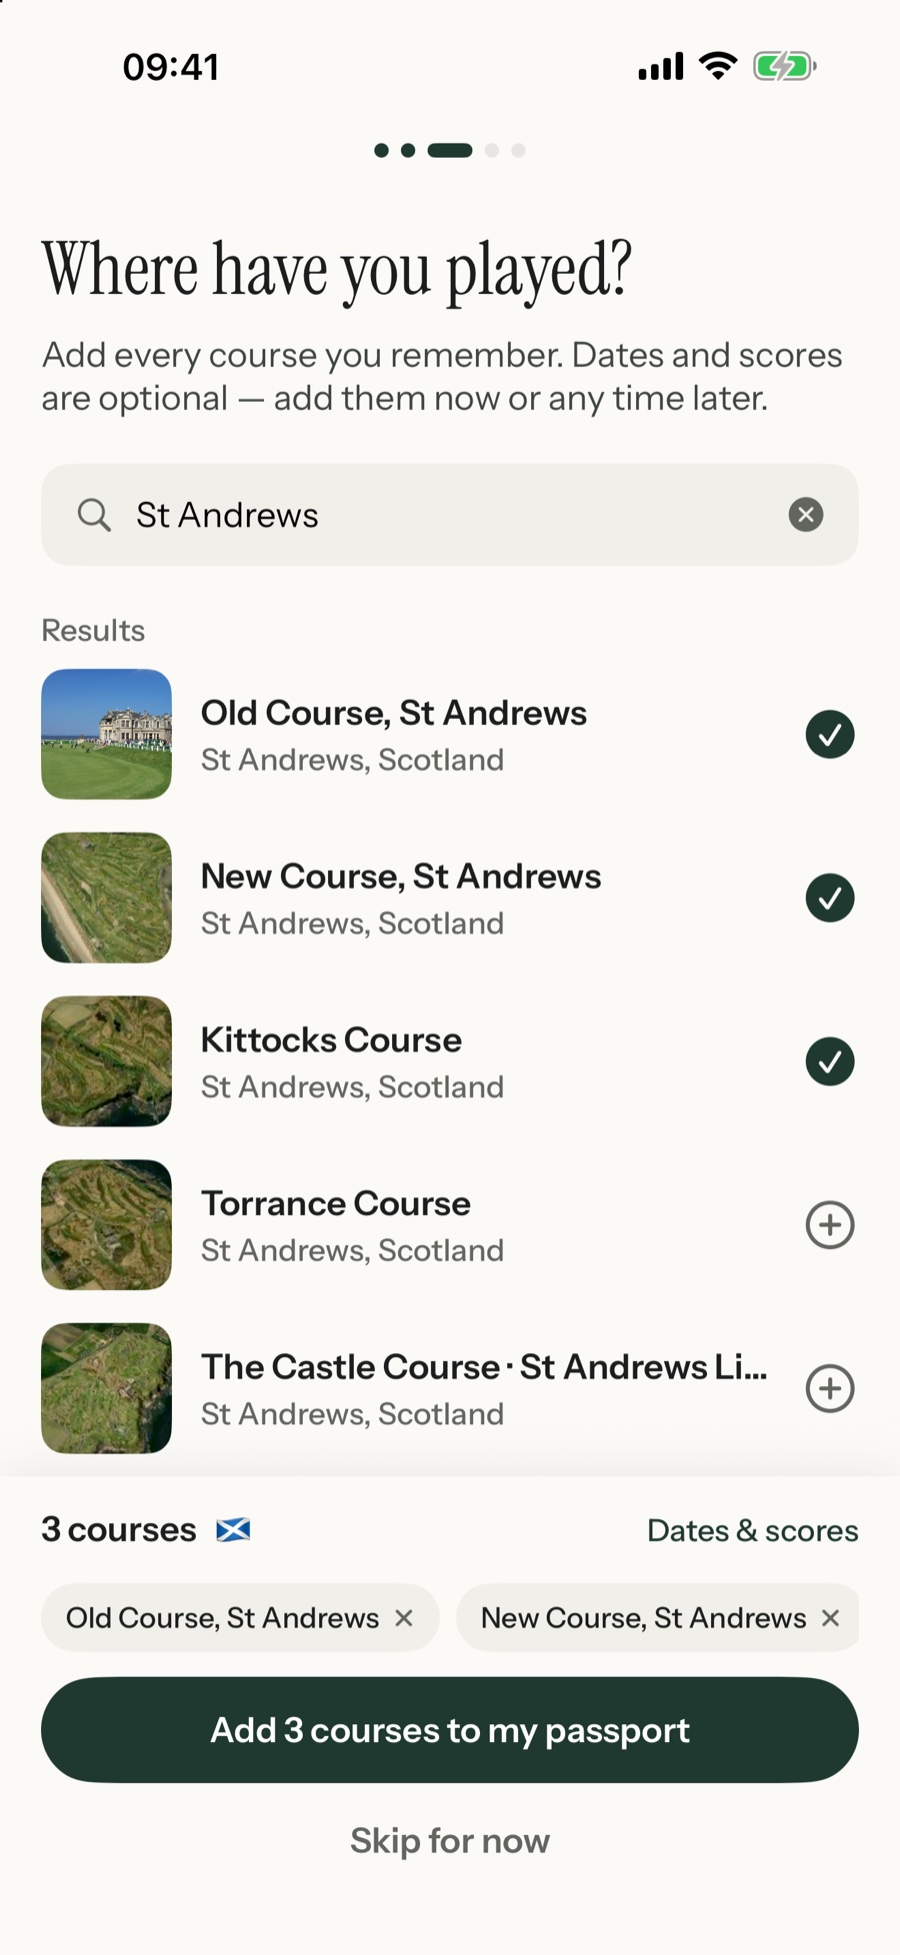
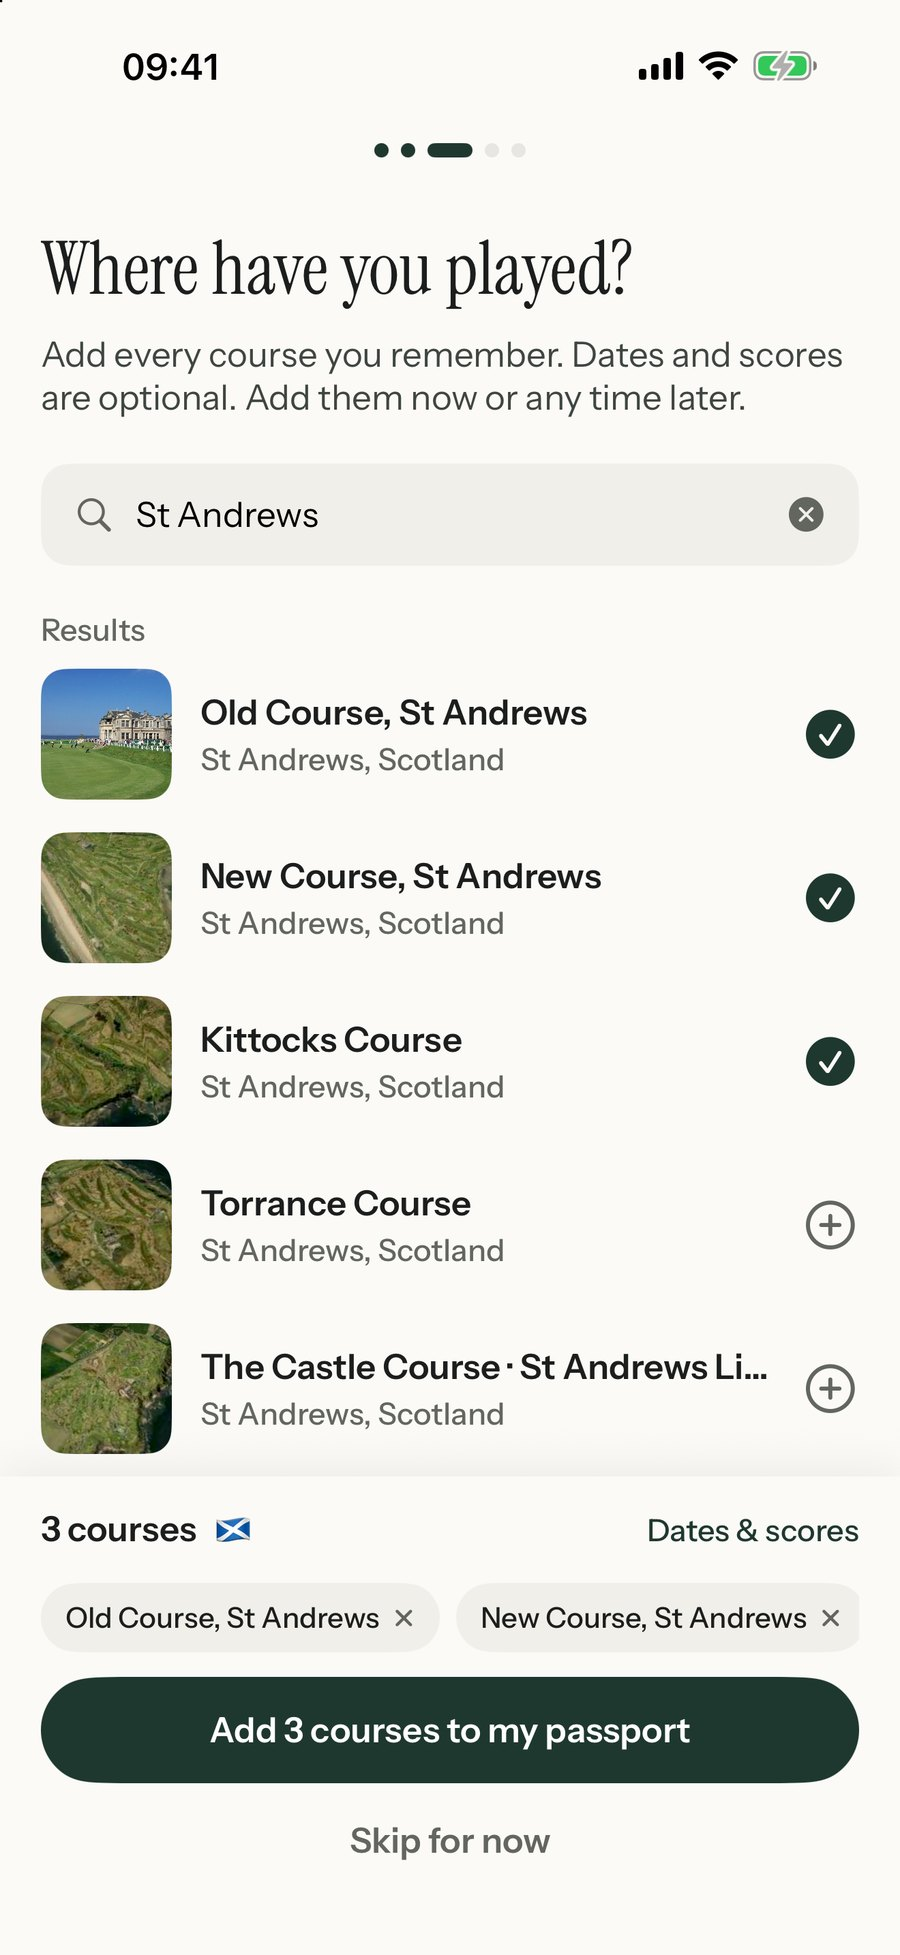
Remove long dashes; new forest green link image; updated course-picking screen

Changed region(s): [[0.28, 0.1872, 0.84, 0.2184]]

diff --git a/support/index.html b/support/index.html
@@ -9,9 +9,9 @@
 <link rel="icon" href="/assets/favicon-64.png">
 <link rel="apple-touch-icon" href="/assets/apple-touch-icon.png">
 <link rel="stylesheet" href="/assets/site.css">
-<meta property="og:title" content="Support — Pinzo">
+<meta property="og:title" content="Pinzo support">
 <meta property="og:description" content="Help with Pinzo, the golf passport app for iPhone: adding courses, logging rounds, Apple Health, friends, iCloud sync and importing from other golf apps.">
-<meta property="og:image" content="https://pinzo.golf/assets/logo-512.png">
+<meta property="og:image" content="https://pinzo.golf/assets/og-image.jpg">
 <meta property="og:url" content="https://pinzo.golf/support/">
 <meta name="theme-color" content="#243F37">
 </head>
@@ -37,10 +37,10 @@
     <details><summary>My course is missing or has the wrong name</summary><p>If a search finds nothing in Pinzo, results from Apple Maps appear underneath. Tap one to add it. If a course is listed but its name is out of date, or one of the club's courses is missing, scroll to the bottom of the course page and tap <b>Suggest a fix</b>. We review every suggestion, and approved fixes reach everyone's app, usually within a day.</p></details>
     <details><summary>Where's my year in golf?</summary><p>Each December and January, your year in golf appears at the top of Home and on your Passport. Any other time, find every year (and your year so far) in <b>Profile → Settings → Your years in golf</b>. Every card can be shared to your Stories.</p></details>
     <details><summary>Can I log nine holes?</summary><p>Yes. Under <b>Score</b> in Log a round, choose <b>18</b>, <b>9</b> or <b>Other</b> for any number of holes. Nine-hole rounds count towards your courses, countries and stamps; scoring medals like Broke 80 need a full 18.</p></details>
-    <details><summary>How do indoor rounds count?</summary><p>Choose <b>Indoor golf</b> when logging. Indoor venues count towards your countries and stamps, and you can note the virtual course you played — but a simulator round at “Pebble Beach” doesn't count as playing Pebble Beach.</p></details>
-    <details><summary>Can I add rounds from years ago?</summary><p>Yes. Tap <b>Log</b> → <b>Past rounds</b> and add every course you remember in one go. Dates and scores are optional — choose an exact date, month, year or “I don't remember”, and add details later from any round.</p></details>
+    <details><summary>How do indoor rounds count?</summary><p>Choose <b>Indoor golf</b> when logging. Indoor venues count towards your countries and stamps, and you can note the virtual course you played, but a simulator round at “Pebble Beach” doesn't count as playing Pebble Beach.</p></details>
+    <details><summary>Can I add rounds from years ago?</summary><p>Yes. Tap <b>Log</b> → <b>Past rounds</b> and add every course you remember in one go. Dates and scores are optional. Choose an exact date, month, year or “I don't remember”, and add details later from any round.</p></details>
     <details><summary>Can I import rounds from Hole19, 18Birdies or Golfshot?</summary><p>If they save your rounds to Apple Health (most do, as do Apple Watch golf workouts), tap <b>Log</b> → <b>Apple Health</b>. Pinzo reads your golf workouts on your iPhone and suggests the course for each one. Those apps don't offer a direct connection to other apps.</p></details>
-    <details><summary>What are milestones?</summary><p>Alongside a stamp for every country, Pinzo awards milestone seals — courses played, rounds logged, breaking 100, 90 and 80, the Old Course, Open venues, a hole in one and more. Find them in your passport; tap one to see your progress or share it.</p></details>
+    <details><summary>What are milestones?</summary><p>Alongside a stamp for every country, Pinzo awards milestone seals: courses played, rounds logged, breaking 100, 90 and 80, the Old Course, Open venues, a hole in one and more. Find them in your passport; tap one to see your progress or share it.</p></details>
     <details><summary>How do I add a hole in one?</summary><p>Tap the Hole in one medal in your milestones, choose <b>Add it to a round</b>, then pick the round and the hole. If a round's note mentions a hole in one, Pinzo will also ask you about it on that round's page.</p></details>
     <details><summary>Which notifications does Pinzo send?</summary><p>Only the ones you choose: a reminder to log after Apple Health records a golf round, occasional “on this day” memories and new stamps (all created on your iPhone), and, if you use Friends, a note when a friend plays.</p></details>
     <details><summary>Can I bring in rounds from Golfshot or other golf apps?</summary><p>Golf apps don't let other apps read their round history directly. If yours saves rounds to Apple Health as golf workouts (Golfshot, Hole19, 18Birdies and Apple Watch can), tap <b>Log</b>, then <b>Rounds in Apple Health</b> under Other ways to add, and Pinzo suggests the course for each one. Otherwise, <b>Courses from years ago</b> in Log (or Quick add in Settings) lets you tick every course you've played in a few minutes. To check, open the Health app on your iPhone and go to your profile → Apps → your golf app.</p></details>
@@ -48,7 +48,7 @@
     <details><summary>Will I lose my passport if I change phone?</summary><p>Not if iCloud is on for Pinzo. Your passport syncs privately through your iCloud, so it appears when you sign in to the same Apple Account on your new iPhone.</p></details>
     <details><summary>Is my data shared with anyone?</summary><p>Only with friends you add yourself, and only where and when you played (plus scores if you choose). There are no ads and no tracking, and photos and notes are never shared. See the <a href="/privacy/">privacy policy</a>.</p></details>
     <details><summary>How do I delete everything?</summary><p>Profile → Settings → <b>Delete all my data</b>. It removes everything from your device and your iCloud and can't be undone.</p></details>
-    <details><summary>Some course details are wrong</summary><p>Course information comes from OpenStreetMap, which anyone can improve at openstreetmap.org — corrections flow into Pinzo in later updates. Or email us and we'll take a look.</p></details>
+    <details><summary>Some course details are wrong</summary><p>Course information comes from OpenStreetMap, which anyone can improve at openstreetmap.org, and corrections flow into Pinzo in later updates. Or email us and we'll take a look.</p></details>
     <details><summary>How do I add friends?</summary><p>Go to your Profile and tap <b>Invite a friend</b>. Pinzo makes a private link that works once; send it by Messages, WhatsApp or anything else. When your friend taps it and accepts, you'll see each other's courses, countries, stamps and new rounds. There's no search, so nobody can find you unless you send them a link.</p></details>
     <details><summary>Can I add who I played with?</summary><p>Yes. When you log a round, tap friends under <b>Played with</b>, or type the name of anyone who isn't on Pinzo. Friends you tag get a note and can add the round to their own passport with one tap. Names you type stay on your iPhone.</p></details>
     <details><summary>Can friends see my scores, photos or notes?</summary><p>Photos and notes are never shared. Each round has its own <b>Show score to friends</b> switch when you log it; new rounds start with whatever you chose last time.</p></details>

diff --git a/privacy/index.html b/privacy/index.html
@@ -3,15 +3,15 @@
 <head>
 <meta charset="utf-8">
 <meta name="viewport" content="width=device-width, initial-scale=1">
-<title>Privacy policy — Pinzo</title>
+<title>Pinzo privacy policy</title>
 <link rel="canonical" href="https://pinzo.golf/privacy/">
 <meta name="description" content="How Pinzo, the golf passport app for iPhone, handles your information. No ads, no tracking, and your passport stays in your own iCloud.">
 <link rel="icon" href="/assets/favicon-64.png">
 <link rel="apple-touch-icon" href="/assets/apple-touch-icon.png">
 <link rel="stylesheet" href="/assets/site.css">
-<meta property="og:title" content="Privacy policy — Pinzo">
+<meta property="og:title" content="Pinzo privacy policy">
 <meta property="og:description" content="How Pinzo, the golf passport app for iPhone, handles your information. No ads, no tracking, and your passport stays in your own iCloud.">
-<meta property="og:image" content="https://pinzo.golf/assets/logo-512.png">
+<meta property="og:image" content="https://pinzo.golf/assets/og-image.jpg">
 <meta property="og:url" content="https://pinzo.golf/privacy/">
 <meta name="theme-color" content="#243F37">
 </head>
@@ -75,17 +75,17 @@
   <h3>Course fixes</h3>
   <p>If you tap <b>Suggest a fix</b> on a course, we receive the course, the kind of problem you picked and anything you type. If you add a course you found on Apple Maps, we receive its name, town, country and map position so we can consider adding it for everyone. Each is sent with a random number created by the app on your iPhone, used only to stop one phone sending too many suggestions. It isn't linked to your name, your account, your Apple ID or your passport. Only Pinzo Golf Ltd can read suggestions. We delete them within 12 months of being sent. Approved corrections (for example a course's new name) are published to every copy of Pinzo and contain no personal information. Our legal basis is our legitimate interest in keeping the course list accurate.</p>
   <h3>Everything else</h3>
-  <p>Apart from Friends and course fixes (above), nothing — unless you contact us. If you email support, we receive your email address and whatever you write, and use it only to reply. We keep support emails for as long as needed to help you, and delete them on request. Our email is provided by Google Workspace.</p>
+  <p>Apart from Friends and course fixes (above), nothing, unless you contact us. If you email support, we receive your email address and whatever you write, and use it only to reply. We keep support emails for as long as needed to help you, and delete them on request. Our email is provided by Google Workspace.</p>
   <p>We don't use analytics, advertising or tracking tools, and we don't sell or share personal information. If you've opted in to share diagnostics with app developers in iOS settings, Apple may provide us with anonymous crash reports.</p>
 
   <h2>Services the app connects to</h2>
   <p>To show course information and images, the app makes requests to these services. They see your device's IP address, as with any website you visit, but receive nothing from your passport.</p>
   <ul>
-    <li><b>Apple Maps</b> — maps and aerial views of courses, and, when Pinzo has no match for what you type in course search, a search of Apple Maps for golf venues. Apple receives that search text and your approximate home area to rank nearby results (Apple's privacy policy applies).</li>
-    <li><b>Wikimedia Commons</b> — openly licensed course photos (Wikimedia Foundation's privacy policy applies).</li>
-    <li><b>pinzo.golf</b> — occasional course-list updates, hosted on GitHub Pages (GitHub's privacy statement applies).</li>
-    <li><b>Supabase</b> — to store your account and shared passport if you use Friends, to receive course fixes you suggest, and to send approved course corrections to the app, as described above.</li>
-    <li><b>Apple Push Notification service</b> — only if you allow friend notifications.</li>
+    <li><b>Apple Maps</b>: maps and aerial views of courses, and, when Pinzo has no match for what you type in course search, a search of Apple Maps for golf venues. Apple receives that search text and your approximate home area to rank nearby results (Apple's privacy policy applies).</li>
+    <li><b>Wikimedia Commons</b>: openly licensed course photos (Wikimedia Foundation's privacy policy applies).</li>
+    <li><b>pinzo.golf</b>: occasional course-list updates, hosted on GitHub Pages (GitHub's privacy statement applies).</li>
+    <li><b>Supabase</b>: to store your account and shared passport if you use Friends, to receive course fixes you suggest, and to send approved course corrections to the app, as described above.</li>
+    <li><b>Apple Push Notification service</b>: only if you allow friend notifications.</li>
   </ul>
   <p>If you share a passport or round card, you choose where it goes using the iOS share sheet; that service's own policy then applies.</p>
 
@@ -93,7 +93,7 @@
   <p>In the app, go to <b>Profile → Settings → Delete all my data</b>. This removes every round, photo, note, saved course, added venue and your profile from your device and your iCloud, and the rounds your friends can see. To remove your Friends account too, use <b>Leave Friends and delete account</b>. You can also delete the app, and remove its iCloud data in iOS Settings → [your name] → iCloud → Manage Storage.</p>
 
   <h2>Your rights</h2>
-  <p>Depending on where you live (for example under the UK GDPR or EU GDPR), you have rights to access, correct, delete, restrict or object to the processing of your personal data, and to data portability. Because your passport is held in your own iCloud, you can exercise most of these directly in the app. For anything else, email <a href="mailto:privacy@pinzo.golf">privacy@pinzo.golf</a>. You also have the right to complain to a data protection authority — in the UK, the Information Commissioner's Office (ico.org.uk), or the authority where you live in the EU.</p>
+  <p>Depending on where you live (for example under the UK GDPR or EU GDPR), you have rights to access, correct, delete, restrict or object to the processing of your personal data, and to data portability. Because your passport is held in your own iCloud, you can exercise most of these directly in the app. For anything else, email <a href="mailto:privacy@pinzo.golf">privacy@pinzo.golf</a>. You also have the right to complain to a data protection authority: in the UK, the Information Commissioner's Office (ico.org.uk), or the authority where you live in the EU.</p>
   <p>Where we process the contents of a support email, our legal basis is our legitimate interest in answering you.</p>
 
   <h2>Children</h2>

diff --git a/index.html b/index.html
@@ -3,7 +3,7 @@
 <head>
 <meta charset="utf-8">
 <meta name="viewport" content="width=device-width, initial-scale=1">
-<title>Pinzo — Golf Passport App: Track Every Course You've Played</title>
+<title>Pinzo: The Golf Passport App for Every Course You've Played</title>
 <meta name="description" content="Pinzo is a free golf passport app for iPhone. Log every golf course you've played, see them on a globe, collect a stamp for every country and keep a golf bucket list.">
 <link rel="canonical" href="https://pinzo.golf/">
 <link rel="icon" href="/assets/favicon-64.png">
@@ -12,10 +12,12 @@
 <link rel="stylesheet" href="/assets/site.css">
 <meta property="og:type" content="website">
 <meta property="og:site_name" content="Pinzo">
-<meta property="og:title" content="Pinzo — Your golf passport">
+<meta property="og:title" content="Pinzo, your golf passport">
 <meta property="og:description" content="Every golf course you've played, every round and every score, and the courses still on your bucket list, in one beautiful passport. Free on iPhone.">
-<meta property="og:image" content="https://pinzo.golf/assets/cards/passport.jpg">
-<meta property="og:image:alt" content="A Pinzo passport postcard with courses, countries, rounds and country stamps">
+<meta property="og:image" content="https://pinzo.golf/assets/og-image.jpg">
+<meta property="og:image:width" content="1200">
+<meta property="og:image:height" content="630">
+<meta property="og:image:alt" content="Pinzo: Your golf, beautifully kept. The golf passport app for iPhone, with a globe">
 <meta property="og:url" content="https://pinzo.golf/">
 <meta name="twitter:card" content="summary_large_image">
 <script type="application/ld+json">
@@ -25,7 +27,7 @@
     {
       "@type": "MobileApplication",
       "name": "Pinzo",
-      "alternateName": "Pinzo — Golf Passport",
+      "alternateName": "Pinzo Golf Passport",
       "description": "A private golf passport for iPhone. Log every golf course you've played, see them on a globe, collect a stamp for every country, add photos, notes and scores to each round, and keep a golf bucket list.",
       "operatingSystem": "iOS",
       "applicationCategory": "SportsApplication",

diff --git a/terms/index.html b/terms/index.html
@@ -3,15 +3,15 @@
 <head>
 <meta charset="utf-8">
 <meta name="viewport" content="width=device-width, initial-scale=1">
-<title>Terms of use — Pinzo</title>
+<title>Pinzo terms of use</title>
 <link rel="canonical" href="https://pinzo.golf/terms/">
 <meta name="description" content="The terms for using Pinzo, the golf passport app for iPhone.">
 <link rel="icon" href="/assets/favicon-64.png">
 <link rel="apple-touch-icon" href="/assets/apple-touch-icon.png">
 <link rel="stylesheet" href="/assets/site.css">
-<meta property="og:title" content="Terms of use — Pinzo">
+<meta property="og:title" content="Pinzo terms of use">
 <meta property="og:description" content="The terms for using Pinzo, the golf passport app for iPhone.">
-<meta property="og:image" content="https://pinzo.golf/assets/logo-512.png">
+<meta property="og:image" content="https://pinzo.golf/assets/og-image.jpg">
 <meta property="og:url" content="https://pinzo.golf/terms/">
 <meta name="theme-color" content="#243F37">
 </head>
@@ -43,7 +43,7 @@
   <p>You can remove, block or report a friend at any time from their profile. We review reports and may suspend or delete accounts that break these rules. You can leave Friends and delete your account at any time in Settings.</p>
 
   <h2>Course information</h2>
-  <p>Course and venue information comes from open sources including OpenStreetMap and Wikidata, plus what users add privately. It may be incomplete or out of date — please check details such as opening hours, access and tee-time policies with the venue before you travel. Pinzo is not affiliated with, or endorsed by, any golf club or venue shown in the app.</p>
+  <p>Course and venue information comes from open sources including OpenStreetMap and Wikidata, plus what users add privately. It may be incomplete or out of date, so please check details such as opening hours, access and tee-time policies with the venue before you travel. Pinzo is not affiliated with, or endorsed by, any golf club or venue shown in the app.</p>
 
   <h2>Licences and credits</h2>
   <ul>

diff --git a/404.html b/404.html
@@ -3,13 +3,13 @@
 <head>
 <meta charset="utf-8">
 <meta name="viewport" content="width=device-width, initial-scale=1">
-<title>Not found — Pinzo</title>
+<title>Page not found | Pinzo</title>
 <meta name="robots" content="noindex">
 <meta name="description" content="">
 <link rel="icon" href="/assets/favicon-64.png">
 <link rel="apple-touch-icon" href="/assets/apple-touch-icon.png">
 <link rel="stylesheet" href="/assets/site.css">
-<meta property="og:title" content="Not found — Pinzo">
+<meta property="og:title" content="Page not found | Pinzo">
 <meta property="og:description" content="">
 <meta property="og:image" content="https://pinzo.golf/assets/logo-512.png">
 <meta property="og:url" content="https://pinzo.golf/404">
